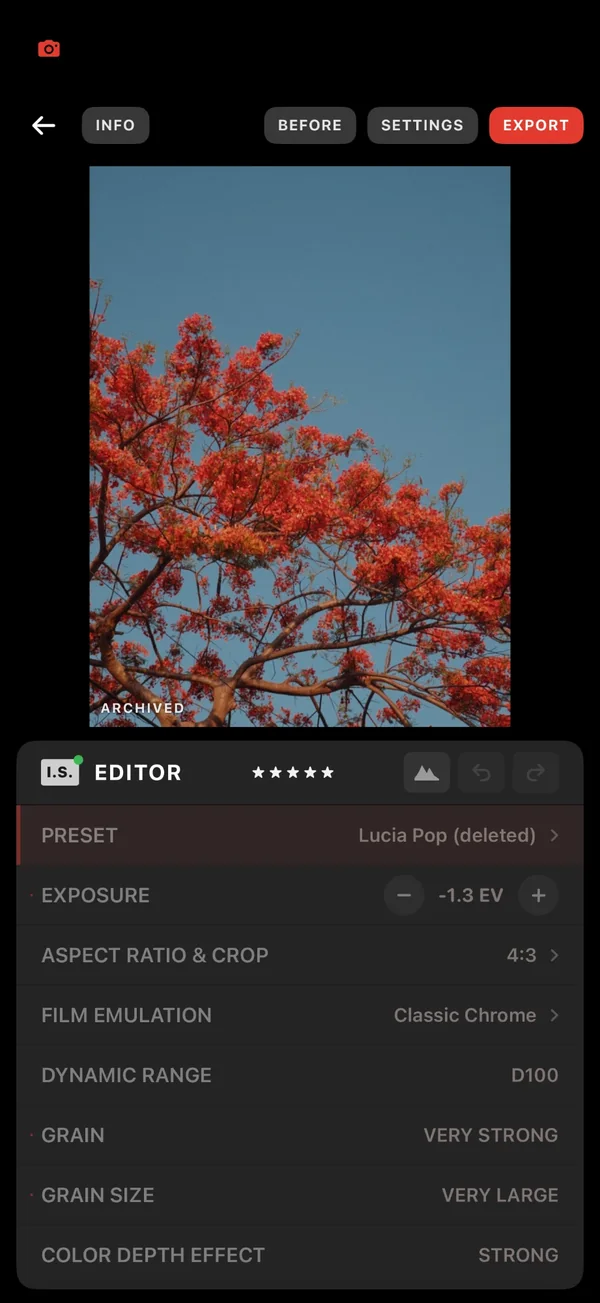
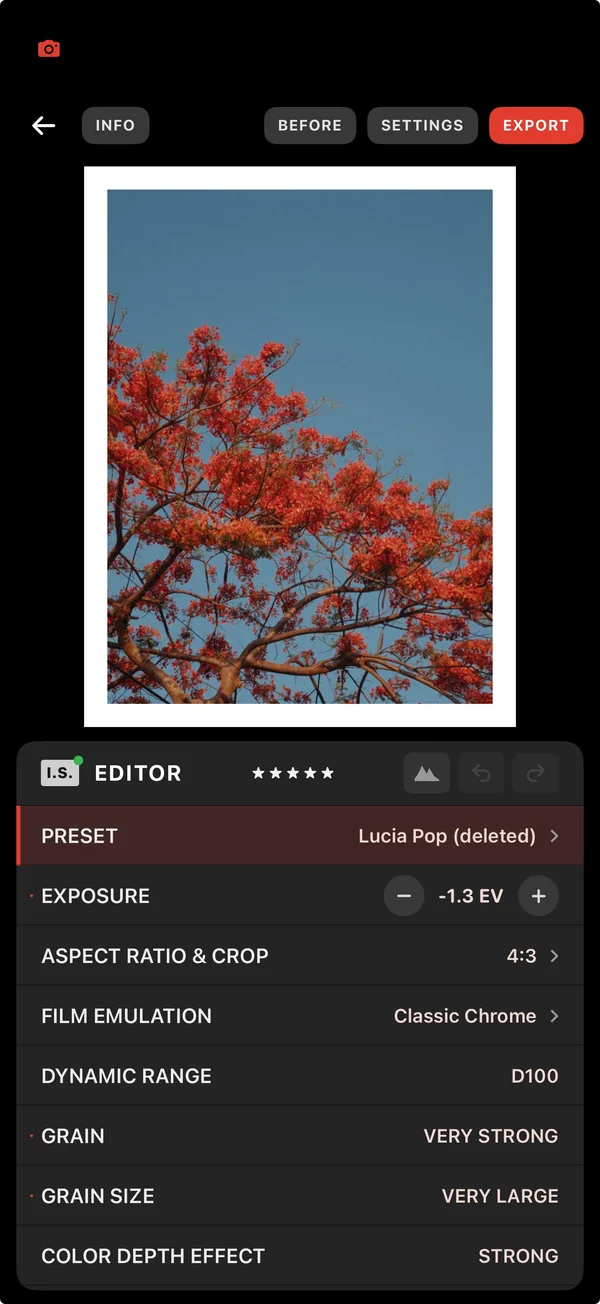
iPhone-Mockup: neuer Screenshot (Mario 261114)

diff --git a/index.html b/index.html
@@ -109,7 +109,7 @@
       </svg>
       <div class="mac"><div class="deckel"><div class="schirm"><img src="img/mac.webp" alt="Lucia for Mac, editor with the red tree photo" width="1348" height="844"></div></div><div class="fuss"><i></i></div></div>
       <div class="ipad"><div class="schirm"><img src="img/ipad.webp" alt="Lucia for iPad" width="1000" height="749"></div></div>
-      <div class="iphone"><div class="insel"></div><div class="schirm"><img src="img/iphone.webp" alt="Lucia on iPhone" width="600" height="1303"></div></div>
+      <div class="iphone"><div class="insel"></div><div class="schirm"><img src="img/iphone.webp" alt="Lucia on iPhone" width="600" height="1304"></div></div>
       <div class="pille">SYNCED</div>
     </div>
 
